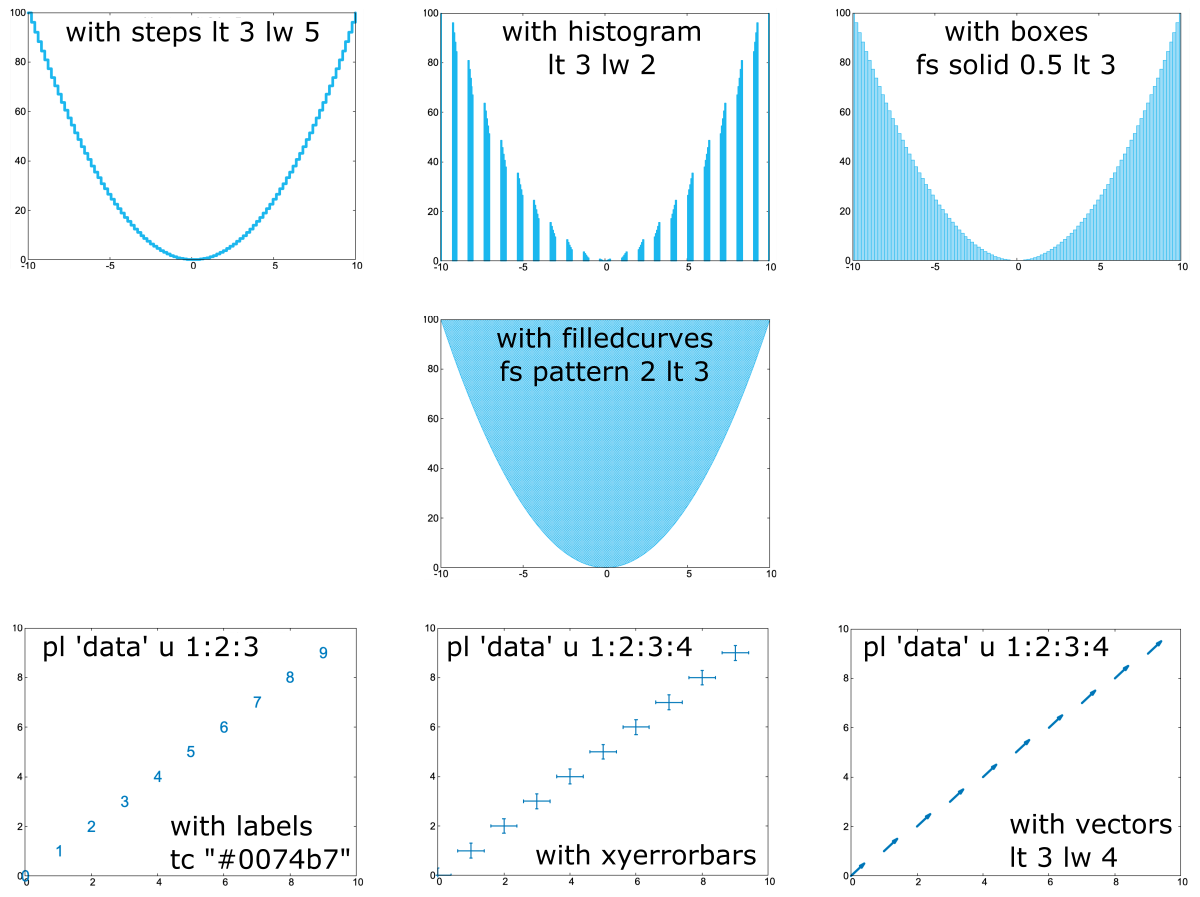
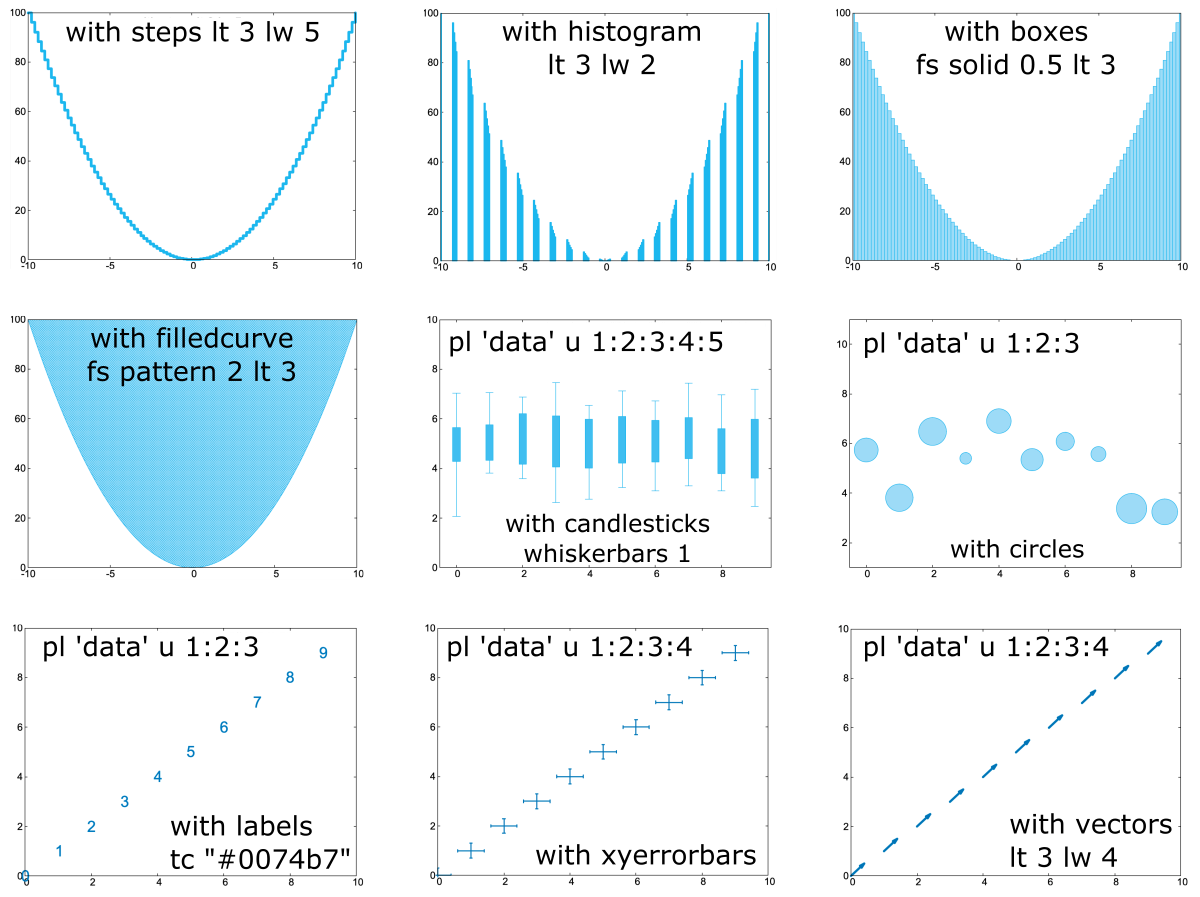
further developments in the Intro to Gnuplot: added content and figures

diff --git a/08-DataVisualization/02-GRAPHS/01-GNUPLOT/01-gnuplot-basics.md b/08-DataVisualization/02-GRAPHS/01-GNUPLOT/01-gnuplot-basics.md
@@ -16,6 +16,8 @@ header:
 Gnuplot is a command-line driven graphing utility available for Linux, Windows, and Mac. The tool provides full customization of the graph by specifying values for numerous parameters. When **run in a terminal**, it allows to change parameter values on the fly and immediately update the graph in the graphical interface, which automatically appears as an additional window. The optimized set of settings can then be copied into a **simple bash script** that can be run in a loop for multiple files or saved for future reuse. Gnuplot is a simple and robust terminal tool that allows you to quickly generate both **2D and 3D charts**.<br>
 I recommend this tool for everyday analytical work, where we need to preview analysis results, as well as for generating highly specialized charts of publication quality. Its important advantage is the ability to **automatically generate hundreds/thousands of charts** of a given type, if needed.
 
+Since version 5.0 and up, there are new features in Gnuplot and enhanced online [documentation](http://www.bersch.net/gnuplot-doc/introduction.html) with a great resource of ready-made [demo examples](http://gnuplot.sourceforge.net/demo_5.4/).
+
 ## Gnuplot Installation
 
 On Linux systems, **Gnuplot** is usually pre-installed. The other operating systems, including Mac OS and Windows, require quick and straightforward installation. Below, you can find a brief guide that requires you to copy-paste code snippets in the **terminal window**.
@@ -127,29 +129,28 @@ At the very top is a shell/kernel syntax `#!/bin/bash` to let the shell know wha
 
 Instead of defining variables, you can provide these values directly in the `gnuplot` section of the script. However, with time you will realize that having those values specified as global variables makes the script more universal and practical for future reuse. Also, this provides the ability to run Gnuplot in a Bash loop to generate the same chart type for multiple inputs.
 
-Finally, there is a `gnuplot` section, where the `<<EOF ... EOF` syntax allows to execute the Gnuplot command within a Bash script. All settings contained inside this syntax can be directly pasted from a Gnuplot session run directly in the terminal. In this example, the only exception is using pre-defined variables instead of exact values. To use a Bash variable defined outside the gnuplot section, prefix the variable name with $ and enclose the entire variable in single quotes.
+Finally, there is a `gnuplot` section, where the `<<EOF ... EOF` syntax allows to execute the Gnuplot command within a Bash script. All settings contained inside this syntax can be directly pasted from a Gnuplot session run directly in the terminal. In this example, the only exception is using pre-defined variables instead of exact values. To use a Bash variable defined outside the gnuplot section, prefix the variable name with $ and enclose the entire variable in single quotes *(for text like variables)*.
 
 ```
 variable --> '$variable'
 ```
 
+<div style="background: #cff4fc; padding: 15px;">
+<span style="font-weight:800;">PRO TIP:</span>
+<br><span style="font-style:italic;">
+To learn more about Gnuplot variables, loops, and conditional plotting, as well as developing an efficient Bash loop to generate many repetetive charts, see the other tutorial:
+<span style="font-weight:bold;">Gnuplot variables, loops, and conditionals.</span>
+</span>
+</div><br>
+
 The `gnuplot` section contains two main blocks of commands:
 
-* layout **set**tings, where individual components are configured with the `set` command
-<div style="background: #cff4fc; padding: 15px;">
-<span style="font-weight:800;">Learn more:</span>
-<br><span style="font-style:italic;">
-The cheatsheet of SET components is provided in the section: Graph Layout Settings.
-</span>
-</div><br>
+* layout **set**tings, where individual components are configured with the `set` command<br>
+ *Learn more in the section: [Graph Layout Settings](#graph-layout-settings).*
 
-* **plot**ting command, where data or a selected function is plotted using `plot` (2D) or `splot` (3D) commands
-<div style="background: #cff4fc; padding: 15px;">
-<span style="font-weight:800;">Learn more:</span>
-<br><span style="font-style:italic;">
-The cheatsheet of (s)plot command is provided in the section: Plotting Options.
-</span>
-</div><br>
+
+* **plot**ting command, where datafile or a selected function is plotted using `plot` (2D) or `splot` (3D) commands<br>
+ *Learn more in the section: [Plotting Options](#plotting-options).*
 
 
 **Run the script**
@@ -160,6 +161,7 @@ To run the script, execute the following command in the terminal window:
 . ./gnuplot_graphing.sh
 ```
 
+
 As a result, the `simple_graph.png` should appear in your working directory.<br>
 
 ![Gnuplot siple graph](../../assets/images/gnuplot_simple_graph.png)<br>
@@ -169,15 +171,9 @@ As a result, the `simple_graph.png` should appear in your working directory.<br>
 
 
 With Gnuplot you can customize literally everything (!) on your chart, including chart title, axis labels, font type and size, margins, legend position, point type and color, background color, and add various additional objects and annotations. You will learn all this in the next section, **[Graph Layout Settings](#graph-layout-settings)**.
-<!--
-### Define Gnuplot variables
 
-### Use Bash variables
 
-### Loops and conditionals in Gnuplot
--->
-
-In the following part of this tutorial, you will learn how to customize **plotting command** and the **graph layout** for your project.
+In the following part of this tutorial, you will learn how to customize **plotting command** and the **graph layout settings** for your project.
 
 
 ----
@@ -223,7 +219,7 @@ Both commands can create graphs :
 ### Arguments for Plotting Commands
 
 The syntax and list of arguments for both `plot` and `splot` commands are generally the same.
-The arguments for plotting command are provided in order starting from an optional **ranges** for X and Y axes defined as an empty square brackets or any of from-to boundary. A value that remains unspecified is automatically assumed from the data. Specifying a **graph function** is a mandatory argument that either is expressed as y=f(x) mathematical formula or using x:y values from input data. The optional use of the **title** keyword followed by a string in single quotes will name the given trace that will be visible in the legend. The last argument, **with**, specifies the style of the plotted curve. The user can choose between different data representations, including points with various marker symbols, diverse line types, dots, boxes, filled curves, and more.
+The arguments for plotting command are provided in order starting from an optional **ranges** for X and Y axes defined as an empty square brackets or any of from-to boundary. A value that remains unspecified is automatically assumed from the data. Specifying a **graph function** is a mandatory argument that either is expressed as y=f(x) mathematical formula or using x:y (x:y:z for 3D) values from input data. The optional use of the **title** keyword followed by a string in single quotes will name the given trace that will be visible in the legend. The last argument, **with**, specifies the style of the plotted curve. The user can choose between different data representations, including points with various marker symbols, diverse line types, dots, boxes, filled curves, and more. The overview of available arguments for plotting commands are provided in Table 1.
 
 **Table 1.** *Arguments for Gnuplot plotting commands with examples.*
 
@@ -234,51 +230,86 @@ The arguments for plotting command are provided in order starting from an option
 | **title** '{string}' | title '' or ti '' <br> ti 'data serie 1' | title 'string'| optional; <br> use keyword `title` or `ti` (shortcut) with custom name <br>for plotted trace in the single quotes |
 | **with** {style} | with points ps 3 <br> with lines lw 2<br> with linepoints <br> with dots| with {marks type} <br> &ensp;pointtype {int} pointsize {float} <br> &ensp;linetype {int} linewidth {float} <br> &ensp;dots| optional; <br> default: `with l lt 1`; <br> use full argument syntax or shortcuts; <br> *for details, see options described in Table 2.*
 
+
+**The options of the 'with' argument**
+
 The **with** argument enables highly detailed customization of the visualization of the plotted data. There are many **styles** available that provide the most meaningful representation of your data. Most styles are available for both 2D and 3D graphs, and details are given in Tables 2A and 2B, where the corresponding labels T - true and F - false are given.
 
-In the first choice, you must decide on the type of curve plotted from your data. Among the most popular options are **lines**, **points**, **linespoints** *(lines with points)*, **dots**, and **impulses** *(see Table 2A and Figure)*. These styles have abbreviations from the first letter of the full name that perform the same action. This is hugely convenient for developing draft charts and saves a lot of coding.
 
 **Table 2A.** *The most popular styles for Gnuplot plotting **with** argument.*
 
-| shape, shortcut | style | type | dash | size | color | colorscale | 2D / 3D |
-| -------- | -------- | -------- | -------- | -------- | -------- | -------- | -------- |
-|lines &emsp; **l** | linestyle VAL <br> **ls 1** | linetype VAL <br> **lt 1** | dashtype VAL <br> **dt 2** | linewidth VAL <br> **lw 1** | linecolor VAL <br> **lc 1**| palette <br> `splot` only | T / T |
-|points &emsp; **p** | ls VAL | pointtype VAL <br> **pt 1** | - | pointsize VAL <br> **ps 1** | lc VAL |palette <br> `splot` only | T / T |
-|linespoints &emsp; **lp** | ls VAL | lt VAL &ensp; pt VAL | dt VAL | lw VAL &ensp; ps VAL | lc VAL | palette <br> `splot` only | T / T |
-|dots &emsp; **d** | ls VAL | lt VAL | - | lw VAL | lc VAL | palette <br> `splot` only | T / T |
-|impulses &emsp; **i** | ls VAL | lt VAL | dt VAL | lw VAL | lc VAL | palette <br> `splot` only | T / T |
+| shape | name, shortcut | style | type | dash | size | color | colorscale | 2D / 3D |
+| -------- | -------- | -------- | -------- | -------- | -------- | -------- | -------- | -------- |
+| ![lines](../../assets/images/gnuplot_with_lines.png) |lines &emsp; **l** | linestyle VAL <br> **ls 1** | linetype VAL <br> **lt 1** | dashtype VAL <br> **dt 2** | linewidth VAL <br> **lw 1** | linecolor VAL <br> **lc 1** <br> **lc 'red'** <br> **lc rgb '#'** | palette <br> `splot` only | T / T |
+| ![points](../../assets/images/gnuplot_with_points.png) |points &emsp; **p** | ls VAL | pointtype VAL <br> **pt 1** | - | pointsize VAL <br> **ps 1** | lc VAL |palette <br> `splot` only | T / T |
+| ![linespoints](../../assets/images/gnuplot_with_linespoints.png) |linespoints &emsp; **lp** | ls VAL | lt VAL &ensp; pt VAL | dt VAL | lw VAL &ensp; ps VAL | lc VAL | palette <br> `splot` only | T / T |
+| ![dots](../../assets/images/gnuplot_with_dots.png) |dots &emsp; **d** | ls VAL | lt VAL | - | lw VAL | lc VAL | palette <br> `splot` only | T / T |
+| ![impulses](../../assets/images/gnuplot_with_impulses.png) |impulses &emsp; **i** | ls VAL | lt VAL | dt VAL | lw VAL | lc VAL | palette <br> `splot` only | T / T |
 
-Then, with a few additional keywords, you can customize the details of the selected style. In particular you can specify styling options with `VAL` provided as an intiger corresponding to a predefined style in a given **Gnuplot terminal type**:
-  * `linestyle VAL`, shortcut: `ls` , defines line type (solid or dotted line) and its color
-  * `linetype VAL`, shortcut: `lt`  , assigns a default color for a given *line_type*
-  * `dashtype VAL`, shortcut: `dt`  , defines the type of line dashing
-  * `linewidth VAL`, shortcut: `lw` , sets the line thickness
-  * `linecolor VAL`, shortcut: `lc` , changes the default color for a given *line_type* when the value is an intiger; can also use common color name, e.g., 'red' or additional `rgb '#4488bb'` syntax
-  * `pointtype VAL`, shortcut: `pt` , specifies the shape and color of used points; color encoded by intiger is the same for linetype and pointtype
-  * `pointsize VAL`, shortcut: `ps` , sets the size of used points, larger values make points more visible
-  * `fill VAL`, shortcut: `fs` , defines the filling style of filledcurves or boxes
-  * `palette`, shortcut: `pal` , enables coloring graphs with a colorscale
+In the first choice, you must decide on the type (shape) of curve plotted from your data. Among the most popular options are **lines**, **points**, **linespoints** *(lines with points)*, **dots**, and **impulses** *(see Table 2A and Figure 7)*. These styles have abbreviations from the first letter of the full name that perform the same action. This is hugely convenient for developing draft charts and saves a lot of coding.
+
+Then, with a few additional keywords, you can customize the details of the selected style. In particular you can specify the overall line style, including dashing type, color, tickness; points shape (marker symbol), size, color; and filling style for closed curves (e.g., boxes). For styling options the `VAL` value is usually determined as an intiger corresponding to a predefined style in a given **Gnuplot terminal type** *(see section [Gnuplot Terminal](#gnuplot-terminal))*:
+
+  * `linestyle VAL`, shortcut: `ls` , intiger `VAL` defines line type (solid or dotted line) and its color
+  * `linetype VAL`, shortcut: `lt`  , intiger `VAL` assigns a default color for a given *line_type*
+  * `dashtype VAL`, shortcut: `dt`  , intiger `VAL` defines the type of line dashing
+  * `linewidth VAL`, shortcut: `lw` , intiger `VAL` sets the line thickness
+  * `linecolor VAL`, shortcut: `lc` , the option changes the default color for a given *line_type* when the value is an intiger; you can also use common color name, e.g., 'red' or additional `rgb '#4488bb'` syntax
+  * `pointtype VAL`, shortcut: `pt` , intiger `VAL` specifies the shape and color of used points; color encoded by intiger is the same for linetype and pointtype
+  * `pointsize VAL`, shortcut: `ps` , intiger `VAL` sets the size of used points, larger values make points more visible
+   * `fillcolor VAL`, shortcut: `fc` , string `"red"` defines the filling color of filledcurves or boxes
+  * `fillstyle VAL`, shortcut: `fs` , syntax `<type> float` defines the filling type *{empty, solid, pattern, palette}* and transparency level of filledcurves or boxes
+  * `palette`, shortcut: `pal` , the option enables coloring graphs with a colorscale
 
 ![Gnuplot siple graph](../../assets/images/gnuplot_with_styles.png)<br>
 **Figure 7.** *The selected plotting style (lines, points, linespoints, dots, impulses) are adjustable by specifying values of additional params that change line dashing, point shape, color, and size/width. The example shows the y=x^2 function in 2D coordinate space.*
 
+Using the styled plotting commands provided in the code block below, you can plot the graphs in Figure 7 yourself.
+
+```
+pl x**2 ti 'with lines lt 2 lw 2' w l lt 2 lw 2                                # lines
+pl x**2 ti 'with points pt 7 ps 2' w p pt 7 ps 2                               # points
+pl x**2 ti 'with linespoints lt 2 lw 2 pt 7 ps 2' w lp lt 2 lw 2 pt 7 ps 2     # linespoints
+pl x**2 ti 'with dots lt 14 lw 5' w d lt 14 lw 5                               # developments
+pl x**2 ti 'with impulses lt 1 lw 2 dt 3' w i lt 1 dt 3 lw 2                   # impulses
+```
+
+For those in need, Gnuplot offers many more sophisticated styles, including [steps](http://www.bersch.net/gnuplot-doc/steps.html), [histogram](http://www.bersch.net/gnuplot-doc/histograms.html), [filledcurve](http://www.bersch.net/gnuplot-doc/filledcurves.html), [boxes](http://www.bersch.net/gnuplot-doc/boxes.html), [labels](http://www.bersch.net/gnuplot-doc/labels.html), [xyerrorbars](http://www.bersch.net/gnuplot-doc/xyerrorbars.html), [vectors](http://www.bersch.net/gnuplot-doc/vectors.html), [candlesticks](http://www.bersch.net/gnuplot-doc/candlesticks.html), [circles](http://www.bersch.net/gnuplot-doc/circles.html), [elipses](http://www.bersch.net/gnuplot-doc/ellipses.html), [image](http://www.bersch.net/gnuplot-doc/image.html), and others.
+
 **Table 2B.** *The other styles for Gnuplot plotting **with** argument.*
 
-| shape, shortcut | style | type | size | color | colorscale | 2D / 3D | fill |
-| -------- | -------- | -------- | -------- | -------- | -------- | -------- |-------- |
-|steps | ls VAL | lt VAL | lw VAL | lc VAL | - | T / F | - |
-|histogram | ls VAL | lt VAL | lw VAL | lc VAL | - | T / F | - |
-|filledcurve | ls VAL | lt VAL | - | lc VAL | - | T / F | fillstyle VAL <br> **fs** *{empty, solid, <br>pattern, palette}* |
-|boxes |ls VAL | lt VAL | lw VAL | lc VAL | *see* **fill** | T / T | fs VAL |
-|labels &emsp; **#** | - | - | font 'Arial, 14' |  textcolor VAL <br> **tc 'red'** | textcolor palette | T / T | - |
-|xyerrorbars &emsp; **#** | ls VAL | lt VAL | lw VAL | lc VAL | palette | T / T | - |
-|vectors &emsp; **#** | ls VAL | lt VAL | lw VAL | lc VAL | *see* **fill** | T / T | filled head <br>*{ , palette}*|
-| ...and [more](http://www.gnuplot.info/docs_4.2/node145.html) | | | | | | | |
+| shape | name , shortcut | style | type | size | color | colorscale | 2D / 3D | fill |
+| -------- | -------- | -------- | -------- | -------- | -------- | -------- | -------- | -------- |
+| ![steps](../../assets/images/gnuplot_with_steps.png) |steps | ls VAL | lt VAL | lw VAL | lc VAL | - | T / F | - |
+| ![hist](../../assets/images/gnuplot_with_histogram.png) |histogram | ls VAL | lt VAL | lw VAL | lc VAL | - | T / F | - |
+| ![fcurve](../../assets/images/gnuplot_with_filledcurve.png) |filledcurve | ls VAL | lt VAL | - | lc VAL | - | T / F | fillstyle {type} VAL <br> **fs** *{empty, solid, <br>pattern, palette} 0.75* |
+| ![boxes](../../assets/images/gnuplot_with_boxes.png) |boxes |ls VAL | lt VAL | lw VAL | lc VAL | *see* **fill** | T / T | fs {type} VAL |
+| ![labels](../../assets/images/gnuplot_with_labels.png) |labels &emsp; **#** | - | - | font 'Arial, 14' |  textcolor VAL <br> **tc 'red'** | textcolor palette | T / T | - |
+| ![vectors](../../assets/images/gnuplot_with_vectors.png) |vectors &emsp; **#** | ls VAL | lt VAL | lw VAL | lc VAL | *see* **fill** | T / T | filled head <br>*{ , palette}*|
+| ![errorbars](../../assets/images/gnuplot_with_errorbars.png) |xyerrorbars &emsp; **#** | ls VAL | lt VAL | lw VAL | lc VAL | palette | T / T | - |
+| ![candlestick](../../assets/images/gnuplot_with_candlesticks.png) |candlesticks &emsp; **#** | ls VAL | lt VAL | lw VAL | lc VAL | palette | T / F | - |
+| ![circles](../../assets/images/gnuplot_with_circles.png) |circles &emsp; **#** | ls VAL | lt VAL | lw VAL | lc VAL | palette | T / T | - |
+|| ...and [more](http://www.gnuplot.info/docs_4.2/node145.html) | | | | | | | |
 
 **#** Plot styles (shapes) marked with # are only for datafiles and requires specifying additional columns for labels (+1 col), xy errors (+2 cols), vectors coordinates (+2 or +3 cols).
 
 ![Gnuplot siple graph](../../assets/images/gnuplot_with_styles_other.png)<br>
-**Figure 8.** *The selected plotting style (steps, histogram, boxes, filledcurves, labels, xyerrorbars, vectors) are adjustable by specifying values of additional params that change color, filling pattern, label font, and size/width. The example shows the y=x^2 function in 2D coordinate space and/or simple x:y input data.*
+**Figure 8.** *The selected plotting style (steps, histogram, boxes, filledcurves, labels, xyerrorbars, vectors, candlesticks, circles) are adjustable by specifying values of additional params that change color, filling pattern, label font, and size/width. The example shows the y=x^2 function in 2D coordinate space and/or simple x:y input data.*
+
+
+Using the styled plotting commands provided in the code block below, you can plot the graphs in Figure 7 yourself.
+
+| GRAPH | command |
+| ----- | ------- |
+|**STEPS**|`pl x**2 ti 'with steps' w steps lt 3 lw 5`|
+|**HISTOGRAM**|`pl x**2 ti 'with histogram' w histogram lt 3 lw 2`|
+|**BOXES**|`pl x**2 ti 'with boxes' w boxes fs solid 0.5 lt 3`|
+|**FILLEDCURVE**|`pl x**2 ti 'with filledcurve' w filledcurve fs pattern 2 ls 3`|
+|**CANDLESTICKS** <br> (using 1:2:3:4:5)|`pl 'data.txt' using 1:(5.5+rand(0)):(4-2*rand(0)):(6.5+rand(0)):(4.5-rand(0)-0.1) w candlesticks whiskerbars 1 lc 3`|
+|**CIRCLES** <br> (using 1:2:3)|`pl [-0.5:9.5][0:10] 'data.txt' using 1:(3+4*rand(0)):(0.5*sqrt(rand(0))) ti 'with circles' w circles lt 3`|
+|**LABELS** <br> (using 1:2:3)|`pl [0:10][0:10] 'data.txt' u 1:2:3 ti 'with labels' w labels font 'Arial,20' tc '#0074b7'`|
+|**XYERRORBARS** <br> (using 1:2:3:4)|`pl [0:10][0:10] 'data.txt' u 1:2:(0.4):(0.3) ti 'with xyerrorbars' w xyerrorbars lt 14 lw 2`|
+|**VCECTORS** <br> (using 1:2:3:4)|`pl [0:10][0:10] 'data.txt' u 1:2:(0.4):(0.5) ti 'with vectors' w vectors lt 14 lw 4`|
 
 
 ### 2D Plots using **plot**
@@ -330,8 +361,14 @@ B. Create grapgh using custom functions, also depending on certain parameters:<b
 <span style="background:#dff5b3; font-weight:600;"> &emsp;SYNTAX: &emsp;plot function(x)&emsp;</span>
 ```
 a = 0.9
-f(x) = a * (x**2 - y**2)
+
+# 2D
+f(x) = a * x**2
 plot f(x)
+
+# 3D
+g(x) = a * (x**2 - y**2)
+splot g(x)
 ```
 
 **Plot Custom Data**
@@ -339,7 +376,8 @@ plot f(x)
 C. Create graph using data from an input file structured into columns, *e.g., space-separated TXT file*:<br><br>
 <span style="background:#dff5b3; font-weight:600;"> &emsp;SYNTAX: &emsp;plot 'filename' using col-x:col-y&emsp;</span>
 ```
-plot 'input.txt' using 1:2
+plot 'input.txt' using 1:2            # 2D
+splot 'input.txt' using 1:2:3         # 3D
 ```
 
 Specify in order `x:y` values providing indexes of corresponding columns in the input file. In Gnuplot numbering columns starts with **1**. You can provide any column index to feed x or y values. You can also use the same column for both, e.g., `using 2:2` or build a custom function using values from column for selected dimension, e.g., `using 1:($1**2)`.
@@ -350,7 +388,7 @@ Specify in order `x:y` values providing indexes of corresponding columns in the 
 
 `set` syntax
 
-### Terminal - set graphing format
+### Gnuplot Terminal
 
 Gnuplots provides the opportunity to save graphs in numerous different formats, including popular raster graphics (**PNG, JPEG**), vector graphics (**SVG, PDF**), and many more (Latex, DXF, Excl, Corel, X11). More about available terminal types you can learn from [Gnuplot Docs](http://gnuplot.sourceforge.net/docs_4.2/node340.html) and explore some examples via [Gnuplotting tutorial](http://www.gnuplotting.org/output-terminals/).
 
@@ -370,27 +408,9 @@ Use `set terminal` syntax to determine what kind of output to generate.
 set terminal pngcairo size 1200,800 enhanced font 'Arial,14'
 ```
 
-### input-related
+![Gnuplot siple graph](../../assets/images/gnuplot_terminals.png)<br>
+**Figure 9.** *Pre-defined styles for selected Gnuplot terminals (raster: PNG, JPEG, GIF; vector: PDF, SVG). There are many more terminals available in Gnuplot.*
 
-### output-related
-
-### graph-related
-
-#### border
-
-#### key (legend)
-
-#### margin
-
-#### title
-
-#### axes
-
-* **label**
-
-* **range**
-
-* **tics**
 
 
 ___
